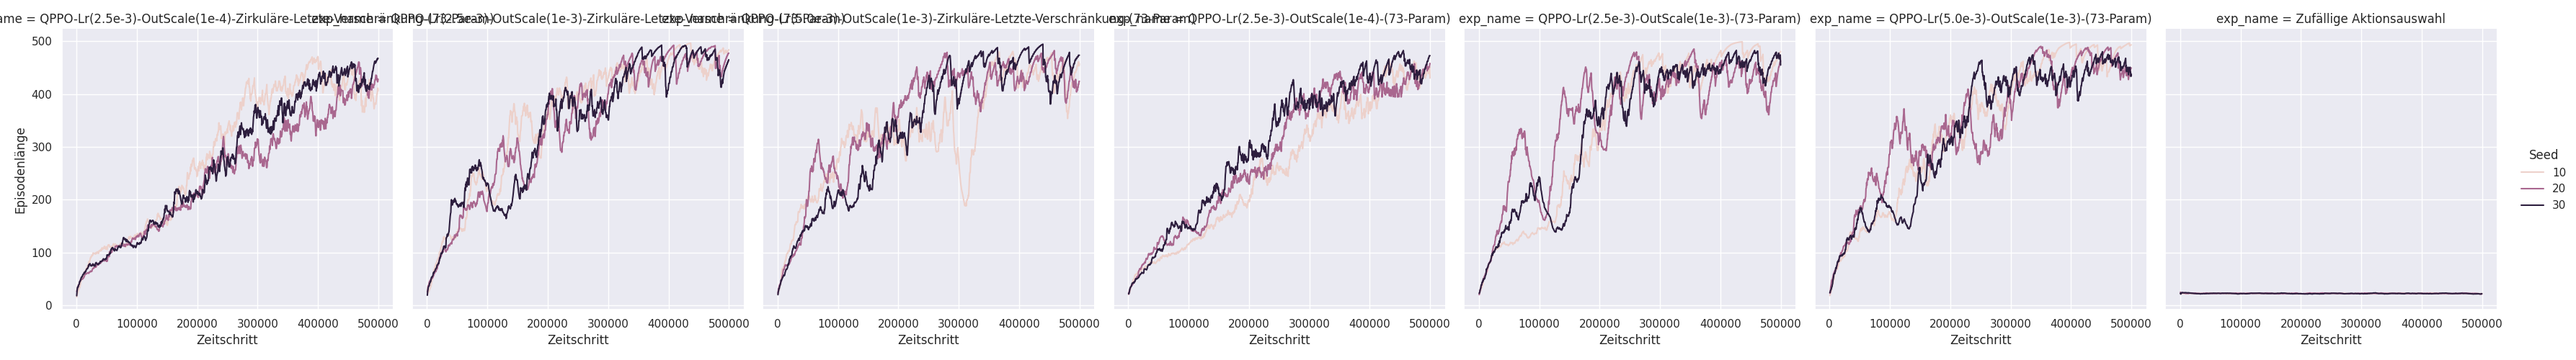
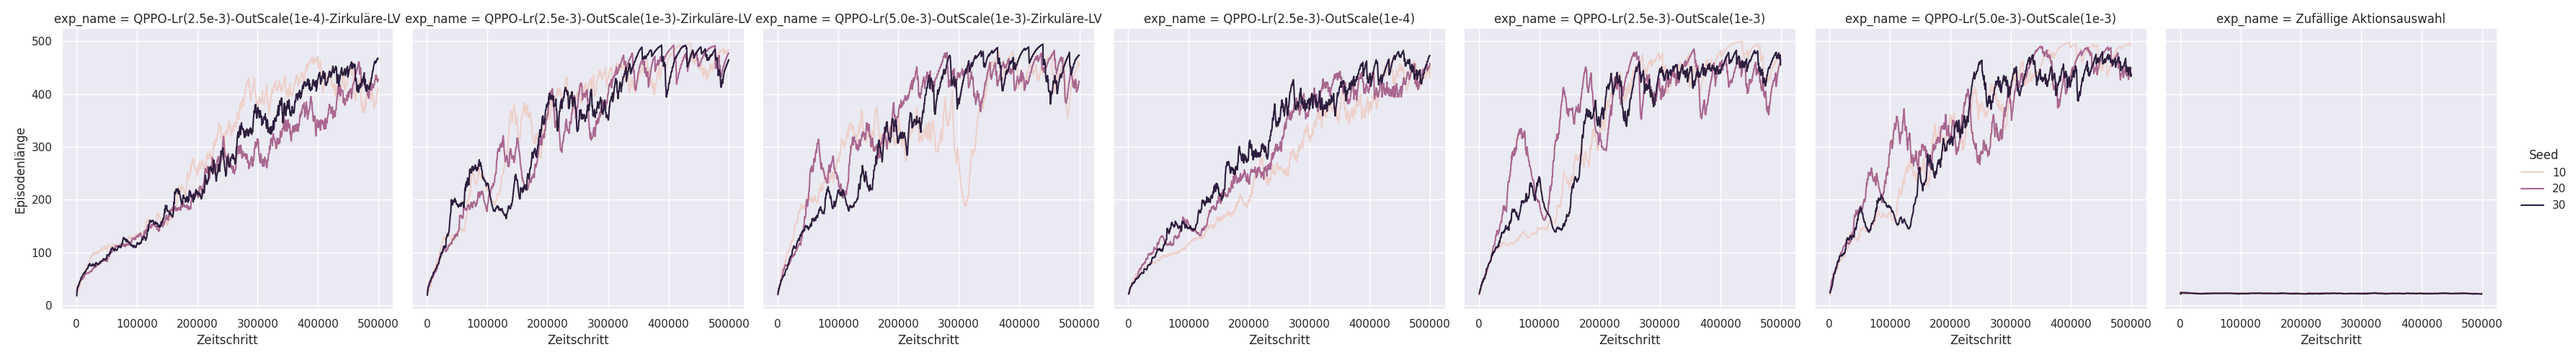
new tests

Changed region(s): [[0.0, 0.03, 0.8386, 0.09]]

diff --git a/test_log2.py b/test_log2.py
@@ -98,7 +98,7 @@ labels=["PPO(64,64)-Lr(2.5e-4)-(5508-Param)", "PPO(64,64)-Lr(1.0e-3)-(5508-Param
 
 plot_test_avg_final(results_dir, plot_dir, gym_id, exp_names, seeds, alpha, max_steps, labels)
 
-"""
+
 plot_dir = plots_dir + "/FL-actor-Hyperparameter-Test-0b-best-NN"
 gym_id = "Deterministic-ShortestPath-4x4-FrozenLake-v0"
 exp_names = [
@@ -116,7 +116,7 @@ alpha = 0.3
 labels=["PPO(3)-Lr(1.0e-2)-(67-Param)", "PPO(4)-Lr(1.0e-2)-(88-Param)", "PPO(5)-Lr(1.0e-2)-(109-Param)", "PPO(4,4)-Lr(1.0e-2)-(108-Param)", "PPO(64,64)-Lr(2.5e-3)-(5508-Param)", "Zufällige Aktionsauswahl"]
 
 plot_test_avg_final(results_dir, plot_dir, gym_id, exp_names, seeds, alpha, max_steps, labels)
-"""
+""""""
 
 
 
@@ -245,7 +245,7 @@ plot_test_avg_final(results_dir, plot_dir, gym_id, exp_names, seeds, alpha, max_
 #
 
 
-"""
+
 plot_dir = plots_dir + "/FL-actor-Test-1-output-scaleing"
 gym_id = "Deterministic-ShortestPath-4x4-FrozenLake-v0"
 exp_names = [
@@ -295,7 +295,7 @@ plot_test_avg_final(results_dir, plot_dir, gym_id, exp_names, seeds, alpha, max_
 # We compare it to an VQC without output scaleing and 2 PPOs with a NN with one hidden Layer with 3 (67 parameters) or 
 # 4 (88 parameters) Nodes (and a lr of 5e-2) for the actor respectively.
 # All Algorithms used a NN with two hidden layers and 64 Nodes (5313 parameters) and a lernrate of 2.5e-4 for the critic. 
-"""
+""""""
 
 
 plot_dir = plots_dir + "/FL-actor-Test-1a-output-scaleing-1-param"
@@ -555,6 +555,25 @@ labels=["PPO(5,5)-Lr(1.0e-4)-(67-Param)", "PPO(6,5)-Lr(1.0e-4)-(77-Param)", "PPO
 
 plot_test_avg_final(results_dir, plot_dir, gym_id, exp_names, seeds, alpha, max_steps, labels)
 
+
+
+plot_dir = plots_dir + "/CP-actor-Hyperparameter-Test-0c-Lr-Scheduling"
+gym_id = "CartPole-v1"
+exp_names = [
+    "CP-ppo-ac-NN(5,5)-actorlr((100-1)e-5,ht=80000)-(67-params)",
+    "CP-ppo-ac-NN(6,5)-actorlr((100-1)e-5,ht=80000)-(77-params)",
+    "CP-ppo-ac-NN(6,6)-actorlr((100-1)e-5,ht=80000)-(86-params)",
+    "CP-ppo-ac-NN(7,7)-actorlr((100-1)e-5,ht=80000)-(107-params)",
+    "CP-ppo-ac-NN(64,64)-actorlr((25-1)e-5,ht=100000)-(4610-params)",
+    "CP-random-baseline-(0-params)",
+]
+seeds = [10, 20, 30, 40, 50]
+batchsize = 4 * 128
+max_steps = 500000
+alpha = 0.05
+labels=["PPO(5,5)-Lr((100->1)e-5, HWT=80000)-(67-Param)", "PPO(6,5)-Lr((100->1)e-5, HWT=80000)-(77-Param)", "PPO(6,6)-Lr((100->1)e-5, HWT=80000)-(86-Param)", "PPO(7,7)-LLr((100->1)e-5, HWT=80000)-(107-Param)", "PPO(64,64)-Lr((25->1)e-5, HWT=100000)-(4610-Param)", "Zufällige Aktionsauswahl"]
+
+plot_test_avg_final(results_dir, plot_dir, gym_id, exp_names, seeds, alpha, max_steps, labels)
 """
 
 
@@ -567,8 +586,7 @@ plot_test_avg_final(results_dir, plot_dir, gym_id, exp_names, seeds, alpha, max_
 
 
 
-
-
+"""
 plot_dir = plots_dir + "/CP-actor-Hyperparameter-Test-1a-qlr-no_output_scale"
 gym_id = "CartPole-v1"
 exp_names = [
@@ -646,11 +664,11 @@ seeds = [10, 20, 30]
 batchsize = 4 * 128
 max_steps = 500000
 alpha = 0.05
-labels=["QPPO-Lr(2.5e-3)-OutScale(1e-4)-Zirkuläre-Letzte-Verschränkung-(73-Param)", "QPPO-Lr(2.5e-3)-OutScale(1e-3)-Zirkuläre-Letzte-Verschränkung-(73-Param)", "QPPO-Lr(5.0e-3)-OutScale(1e-3)-Zirkuläre-Letzte-Verschränkung-(73-Param)", "QPPO-Lr(2.5e-3)-OutScale(1e-4)-(73-Param)", "QPPO-Lr(2.5e-3)-OutScale(1e-3)-(73-Param)", "QPPO-Lr(5.0e-3)-OutScale(1e-3)-(73-Param)", "Zufällige Aktionsauswahl"]
+labels=["QPPO-Lr(2.5e-3)-OutScale(1e-4)-Zirkuläre-LV", "QPPO-Lr(2.5e-3)-OutScale(1e-3)-Zirkuläre-LV", "QPPO-Lr(5.0e-3)-OutScale(1e-3)-Zirkuläre-LV", "QPPO-Lr(2.5e-3)-OutScale(1e-4)", "QPPO-Lr(2.5e-3)-OutScale(1e-3)", "QPPO-Lr(5.0e-3)-OutScale(1e-3)", "Zufällige Aktionsauswahl"]
 
 plot_test_avg_final(results_dir, plot_dir, gym_id, exp_names, seeds, alpha, max_steps, labels)
 # for the tests before this one, circular entanglement was used for the last layer instead of onely entangeling the 1st and 3th Qubit plus the 2nd an 4th Qubit
-
+""""""
 
 
 plot_dir = plots_dir + "/CP-actor-Hyperparameter-Test-3a-random-inits"
@@ -789,5 +807,29 @@ batchsize = 4 * 128
 max_steps = 500000
 alpha = 0.05
 labels=["QPPO(6-Layer)-KeinInpScale-(73-Param)", "QPPO(6-Layer)-GeteiltesInpScale-(77-Param)", "QPPO(5-Layer)-InpScale-(81-Param)", "Zufällige Aktionsauswahl", "PPO(5,5)-(67-Param)", "PPO(6,5)-(77-Param)", "PPO(6,6)-(86-Param)"]
+
+plot_test_avg_final(results_dir, plot_dir, gym_id, exp_names, seeds, alpha, max_steps, labels)
+"""
+
+
+plot_dir = plots_dir + "/CP-actor-Test-2-Ansatz-Comparison"
+gym_id = "CartPole-v1"
+exp_names = [
+    "CP-qppo-ac-simple_reuploading-exp_sced-ht100000-start-qlr2.5e-3-end-qlr1e-4-output_scaleing-1param-1e-4-(73-params)-allsmallinit",
+    "CP-qppo-ac-simple_reuploading----------------exp_sced-ht_80000-qlr(25-1)e-4-OutScale(5e-4)-allsmallinit-(73-params)",
+    "CP-qppo-ac-simple_reuploading_sharedInpScale-exp_sced-ht_80000-qlr(25-1)e-4-OutScale(5e-4)-allsmallinit-(77-params)",
+    "CP-qppo-ac-simple_reuploading_Input_Scaleing-exp_sced-ht_80000-qlr(25-1)e-4-OutScale(5e-4)-allsmallinit-(65-params)-4-layers",
+    "CP-qppo-ac-simple_reuploading_Input_Scaleing-exp_sced-ht_80000-qlr(25-1)e-4-OutScale(5e-4)-allsmallinit-(81-params)-5-layers",
+    "CP-qppo-ac-simple_reuploading_Input_Scaleing-exp_sced-ht_80000-qlr(10-0.5)e-4-OutScale(5e-4)-allsmallinit-(97-params)",
+    "CP-random-baseline-(0-params)",
+    "CP-ppo-ac-NN(5,5)-(actor-lr=1.0e-4)-(67-params)",
+    "CP-ppo-ac-NN(6,5)-(actor-lr=1.0e-4)-(77-params)",
+    "CP-ppo-ac-NN(6,6)-(actor-lr=1.0e-4)-(86-params)",
+]
+seeds = [10, 20, 30]
+batchsize = 4 * 128
+max_steps = 150000
+alpha = 0.05
+labels=["QPPO(6-Layer)-KeinInpScale-Out(1e-4)-(73-Param)", "QPPO(6-Layer)-KeinInpScale-(73-Param)", "QPPO(6-Layer)-GeteiltesInpScale-(77-Param)", "QPPO(4-Layer)-InpScale-(65-Param)", "QPPO(5-Layer)-InpScale-(81-Param)", "QPPO(6-Layer)-InpScale-(96-Param)", "Zufällige Aktionsauswahl", "PPO(5,5)-(67-Param)", "PPO(6,5)-(77-Param)", "PPO(6,6)-(86-Param)"]
 
 plot_test_avg_final(results_dir, plot_dir, gym_id, exp_names, seeds, alpha, max_steps, labels)

diff --git a/src/main.py b/src/main.py
@@ -664,6 +664,7 @@ if __name__ == "__main__":
                 "charts/learning_rate", args.classic_actor_learning_rate, global_step
             )
             qlearning_rate = 0
+            learning_rate = 0
             if args.quantum_actor:
                 writer.add_scalar(
                     "charts/qlearning_rate",
@@ -671,13 +672,16 @@ if __name__ == "__main__":
                     global_step,
                 )
                 qlearning_rate = quantum_actor_optimizer.param_groups[0]["lr"]
-            elif args.quantum_critic:
-                writer.add_scalar(
-                    "charts/qlearning_rate",
-                    quantum_critic_optimizer.param_groups[0]["lr"],
-                    global_step,
-                )
-                qlearning_rate = quantum_critic_optimizer.param_groups[0]["lr"]
+            else:
+                learning_rate = actor_optimizer.param_groups[0]["lr"]
+                if args.quantum_critic:
+                    writer.add_scalar(
+                        "charts/qlearning_rate",
+                        quantum_critic_optimizer.param_groups[0]["lr"],
+                        global_step,
+                    )
+                    qlearning_rate = quantum_critic_optimizer.param_groups[0]["lr"]
+
             writer.add_scalar("losses/value_loss", v_loss.item(), global_step)
             writer.add_scalar("losses/policy_loss", pg_loss.item(), global_step)
             writer.add_scalar("losses/entropy", entropy_loss.item(), global_step)
@@ -703,7 +707,7 @@ if __name__ == "__main__":
 
             # store data of update
             save_results.append_update_results(
-                args.classic_actor_learning_rate,
+                learning_rate,
                 qlearning_rate,
                 v_loss.item(),
                 pg_loss.item(),
